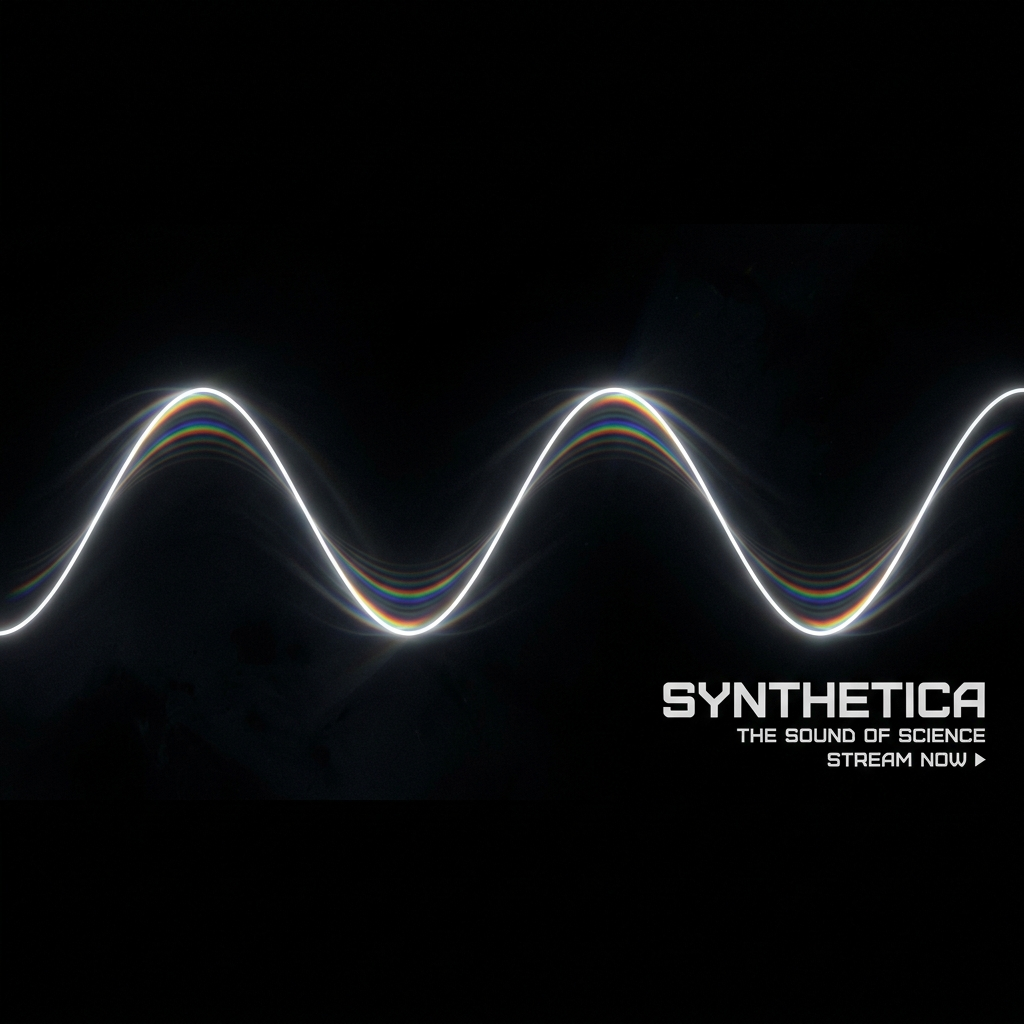
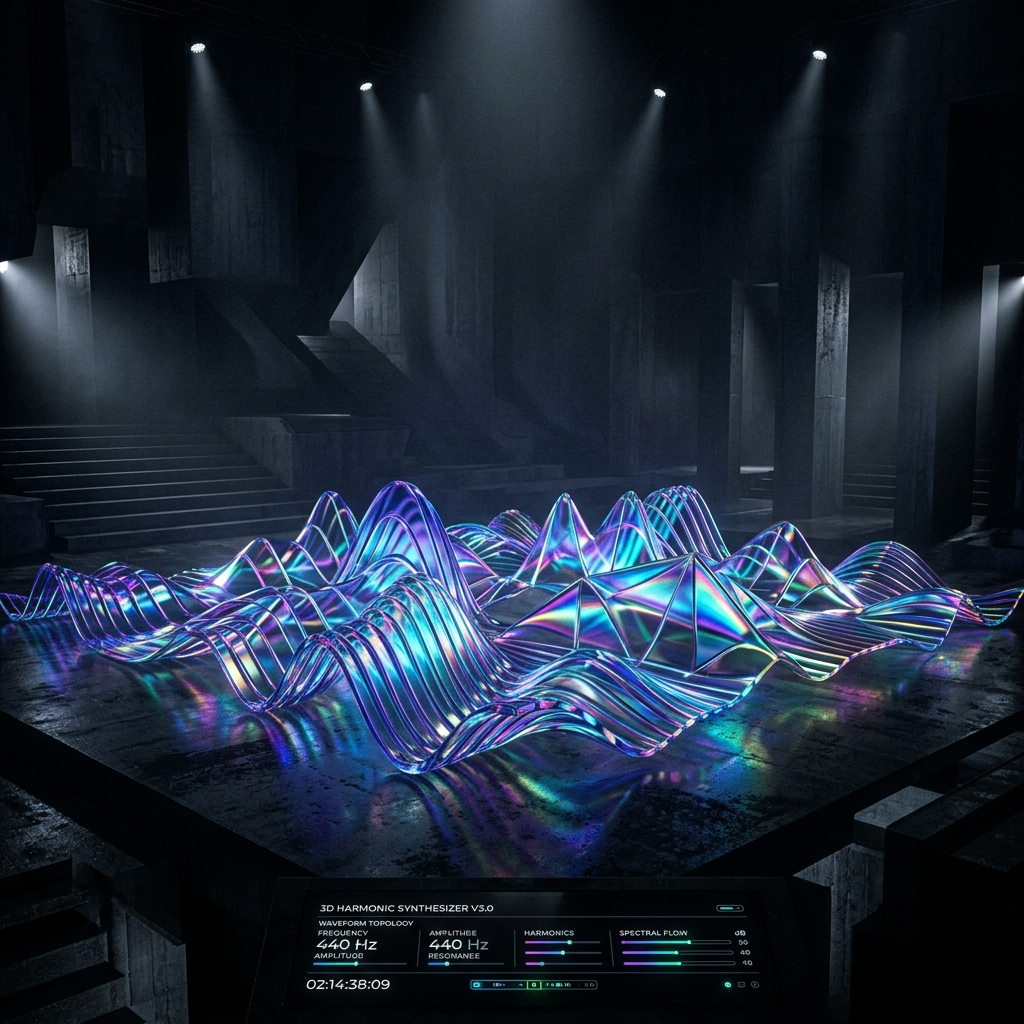
docs: refine project branding, update README documentation, and replace cover image

diff --git a/app/layout.tsx b/app/layout.tsx
@@ -20,7 +20,7 @@ const playfair = Playfair_Display({
 
 export const metadata: Metadata = {
   title: 'Synthetica',
-  description: 'The first Digital Audio Workstation powered entirely by mathematical vibrations and natural language synthesis.',
+  description: 'The first Digital Audio Workstation powered entirely by mathematical vibrations and equation-based synthesis.',
   icons: {
     icon: '/icon.png',
   },

diff --git a/README.md b/README.md
@@ -2,59 +2,41 @@
   <img src="public/cover.png" width="100%" alt="Synthetica Banner" />
 
   # SYNTHETICA
-  ### The Equation-Based Digital Audio Workstation
+  ### Equation-Based Digital Audio Workstation
 
-  [Demo](https://synthecia-168810048178.us-central1.run.app) • [Vibe-Coding #JuaraVibeCoding](https://ai.studio)
+  [Live Demo](https://synthecia-168810048178.us-central1.run.app)
 </div>
 
 ---
 
-**Synthetica** is a professional-grade Digital Audio Workstation (DAW) where sound is not sampled, but solved. Built for the #JuaraVibeCoding event, it leverages mathematical functions to generate high-fidelity audio in real-time.
+Synthetica generates audio from mathematical functions in real-time. It is a Digital Audio Workstation designed for precision synthesis and multi-track arrangement. Sound here is not sampled; it is calculated.
 
-## 🚀 Key Features
+## Features
 
-- **Math-to-Sound Engine**: Write pure JavaScript math functions to generate complex waveforms.
-- **Producer Studio**: A multi-track timeline for arranging clips, complete with volume automation and master reverb.
-- **Project Persistence**: Save and load your compositions directly in the browser via LocalStorage.
-- **Vibe-Coding Integration**: Powered by Gemini API for natural language sound synthesis and orchestration.
+- **Mathematical Synthesis**: Pure JavaScript functions drive raw audio worklets.
+- **Producer Studio**: Multi-track timeline for arrangement and volume automation.
+- **Persistence**: Project state saves locally in the browser.
+- **Effects**: Integrated master reverb and stereo processing.
 
-## 🛠 Tech Stack
+## Tech Stack
 
-- **Core**: [Next.js 15](https://nextjs.org/) & [React 19](https://react.dev/)
-- **Audio Engine**: [Tone.js](https://tonejs.github.io/) & Custom Web Audio Worklets
-- **AI**: [Google Gemini API](https://ai.google.dev/)
-- **Infrastructure**: [Google Cloud Run](https://cloud.google.com/run) & [Docker](https://www.docker.com/)
+- **Core**: Next.js 15, React 19.
+- **Audio**: Tone.js and the Web Audio API.
+- **Cloud**: Dockerized for Google Cloud Run.
 
-## 💻 Getting Started
+## Development
 
 ### Prerequisites
-- Node.js 20+
-- Google Cloud SDK (for deployment)
+- Node.js 20 or higher.
+- Google Cloud SDK.
 
-### Local Development
-1. Install dependencies:
-   ```bash
-   npm install
-   ```
-2. Set your environment variables in `.env.local`:
-   ```bash
-   GEMINI_API_KEY=your_api_key_here
-   ```
-3. Run the development server:
-   ```bash
-   make dev
-   ```
-
-## 🚢 Deployment
-
-The project is optimized for **Google Cloud Run**. Use the included `Makefile` for automated deployment:
-
-```bash
-make deploy
-```
+### Commands
+1. **Install**: `npm install`
+2. **Dev**: `make dev`
+3. **Deploy**: `make deploy`
 
 ---
 
 <div align="center">
-  Built with 🎹 and 📐 for #JuaraVibeCoding
+  Mathematics is the score.
 </div>